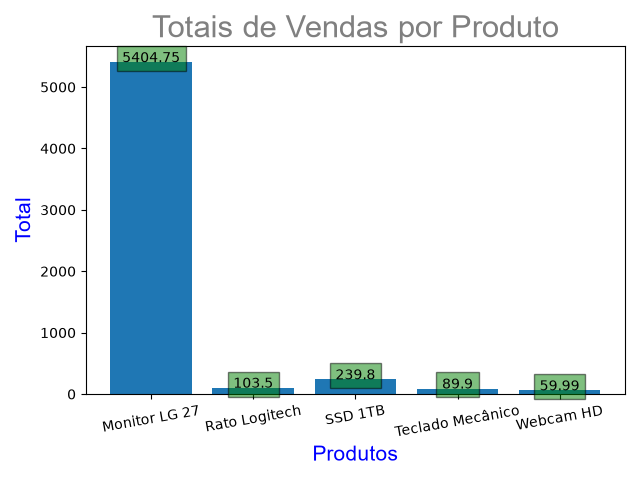
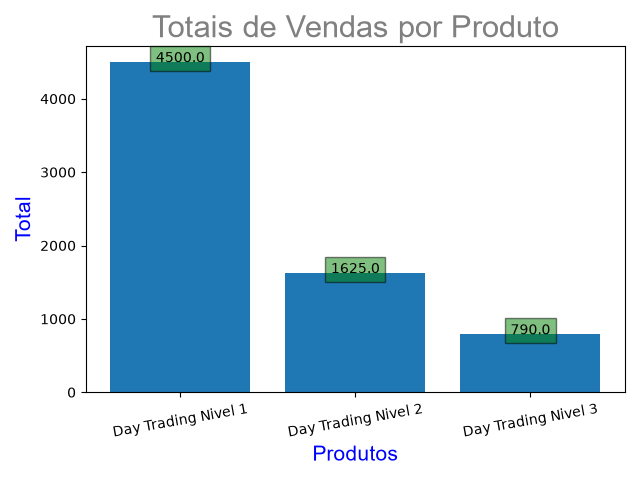
Adição de um Readme e o respetivo CSV de teste

diff --git a/README.md b/README.md
@@ -1,0 +1,40 @@
+# Analisador de Dados de Vendas
+ 
+Aplicação desenvolvida em Python para análise exploratória de um ficheiro CSV
+com dados de vendas, incluindo validação de dados, calculo de métricas, geração de relatório em HTML
+com gráfico incluido.
+Esta aplicação tambem inclui um mini CRM para gestão de clientes e leads/oportunidades.
+
+## Funcionalidades
+
+    - Upload do CSV 
+    - Calculo de métricas(Total de vendas, Total Faturado, Média de Vendas
+       Totais por Produto e Top 3 Produtos)
+    - Geração de um relatório em HTML com gráfico incluído
+    - Mini CRM contruído em Streamlit(UI) para gestão de: 
+      - clientes(criação, atualização, remoção e filtragem de registos)  
+      - leads/oportunidades(criação, atualização, remoção e filtragem de registos) 
+
+## Como correr o programa
+
+1 - Instalar dependências:
+    
+    pip install -r requirements.txt
+
+2 - Correr o streamlit:
+    
+    streamlit run main.py
+
+3 - Escolher na aplicação entre:
+
+    - Analise de CSV(onde tem a opção de selecionar um ficheiro .csv pretendido)
+    - CRM
+
+
+## Tecnologias utilizadas
+
+    - Python >+3.10
+    - Pandas
+    - Matplotlib
+    - SQLite3
+    - Streamlit
